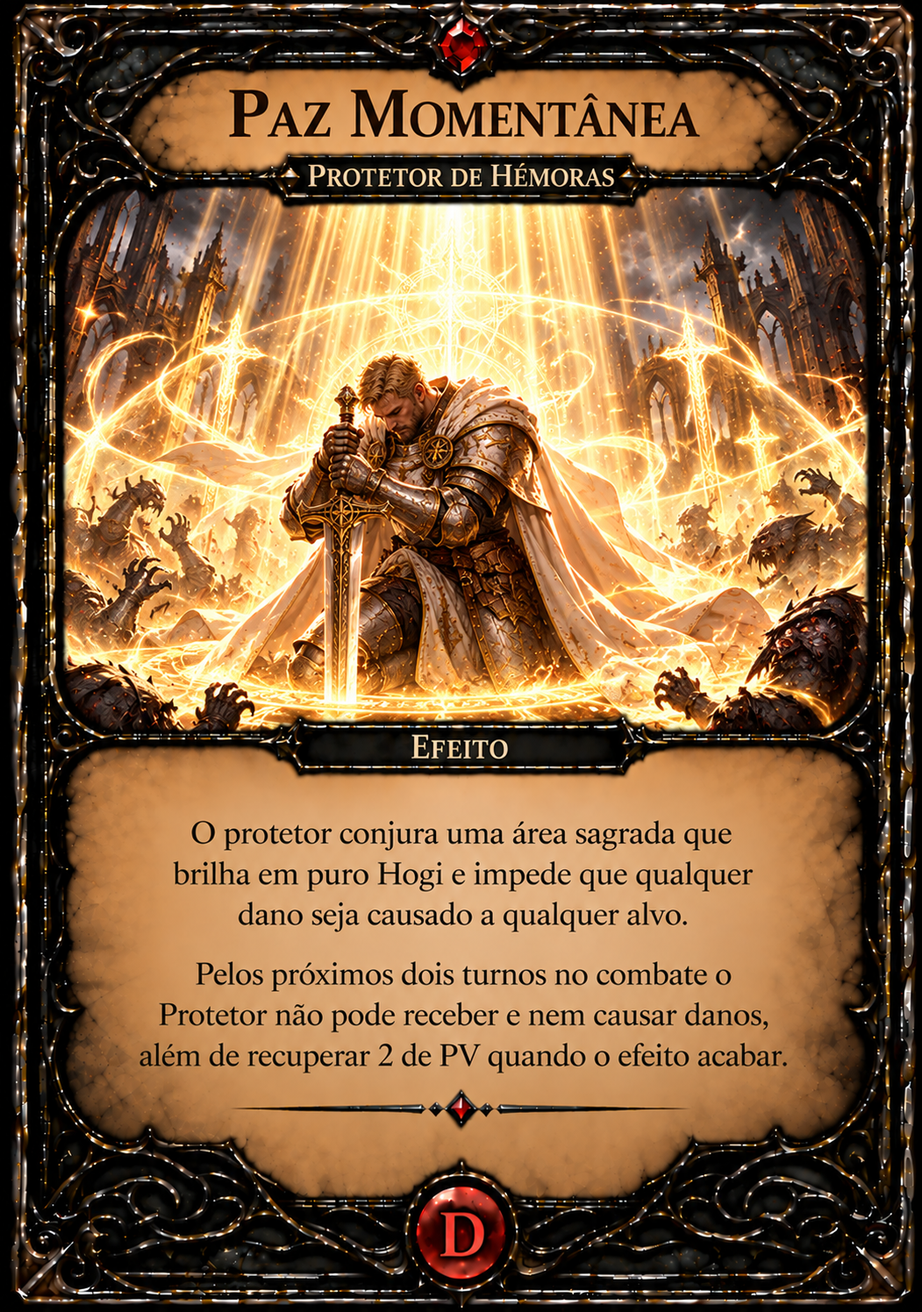
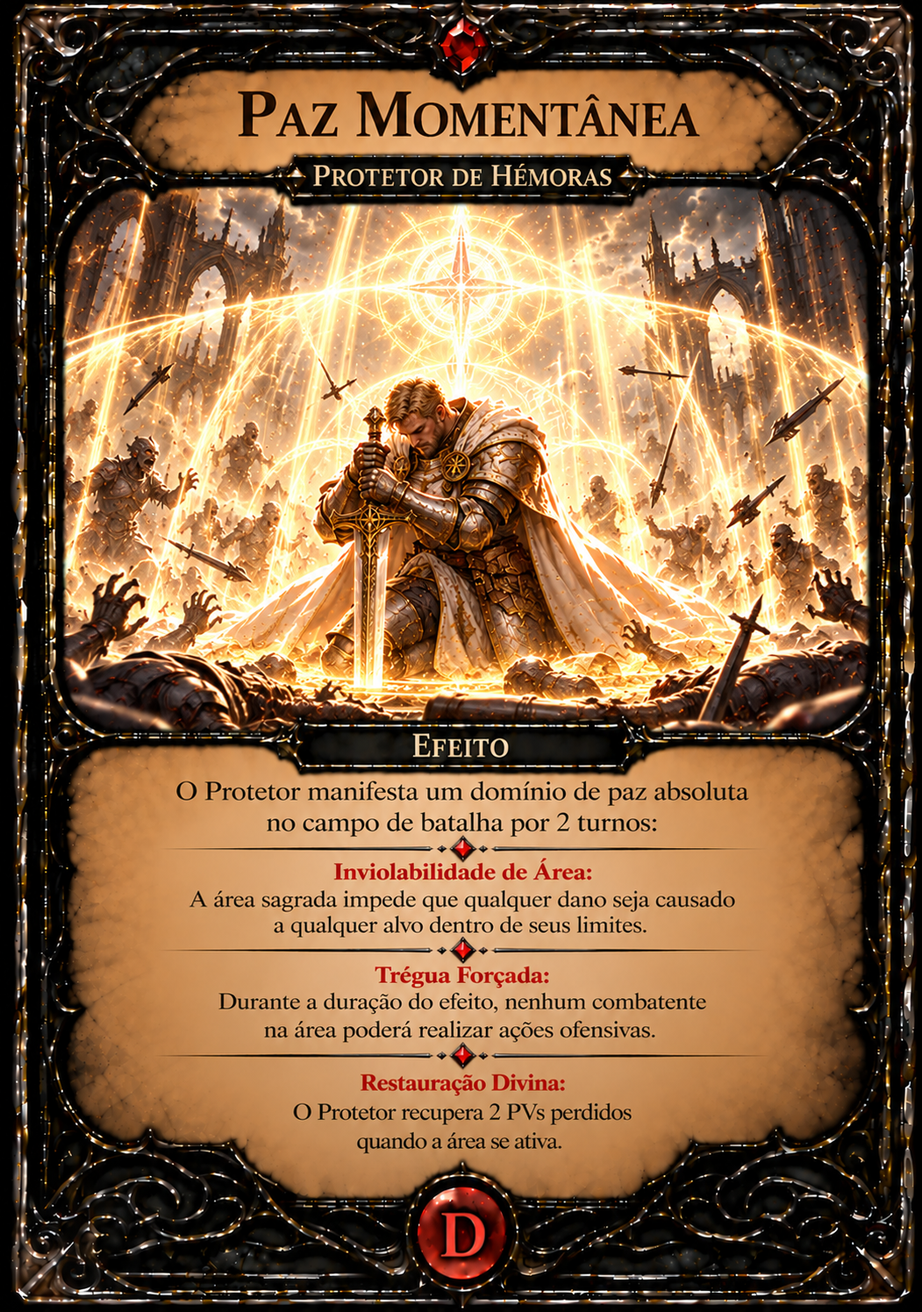
Habilidades + Artes

diff --git a/herois.html b/herois.html
@@ -482,9 +482,13 @@
                 <div class="texto-jogo">
                     <div class="titulo-habilidades">Habilidades conhecidas</div>
                     <div class="habilidades-lista">
-<p class="habilidade"><strong>D - Evasão</strong>: O Adepto consegue distorcer sua imagem e se transformar em um borrão, conseguindo evadir-se de um Combate ou Evento, recuando uma casa sem ativar o efeito da mesma. Evasão também pode ser usada em combate para desviar de 1 habilidade. Não pode ser usada em Lordes, Eventos e Guardiões.</p>
-<p class="habilidade"><strong>D - Esquiva Perfeita</strong>: A velocidade de Adepto aumenta em 5x, Os próximos 2 ataques que não sejam de efeitos em área ou auras e que tenha como o alvo o Adepto, o mesmo esquivará automaticamente.</p>
-<p class="habilidade"><strong>O - Furto Espectral</strong>: O Adepto rouba uma carta do adversário (o Alvo perde a carta); caso a carta escolhida for de habilidade, o adepto poderá usar a mesma na próxima açã ou até o fim do combate atual. Caso o Furto seja usado em um monstro do cenário, o jogador poderá receber o consumível daquele monstro e recuperar uma habilidade que já tenha sido usada anteriormente. Furto Espectral causa 1 de dano ao PV do alvo alvo roubado.</p>
+<p class="habilidade"><strong>D - Evasão</strong>: O Adepto distorce a própria imagem e pode escolher um dos seguintes efeitos:
+Recuo Tático - Recua 1 casa para sair de sua posição atual. Ele não ativa os efeitos ou armadilhas da casa de destino e anula tentativas de combate ou descoberta em sua posição anterior.
+Finta - Quando for alvo de uma habilidade em combate, desvia completamente do golpe, anulando todos os seus efeitos naquele turno.</p>
+<p class="habilidade"><strong>D - Esquiva Perfeita</strong>: O Adepto ganha uma agilidade sobrenatural. Os próximos 2 ataques comuns direcionados ao Adepto falham automaticamente, fazendo com que ele evite 100% do dano recebido desses golpes.</p>
+<p class="habilidade"><strong>O - Furto Espectral</strong>: O Adepto desfere um golpe preciso que causa 1 de dano de PV ao alvo.
+Contra Inimigos (Personagens): O Adepto distorce a energia (Hogi) do adversário e rouba 1 magia dele. O alvo perde o acesso a essa habilidade, e o Adepto pode usá-la até o fim do combate.
+Contra Monstros: O Adepto ganha 1 consumível e recupera 1 habilidade já gasta.</p>
                     </div>
                     <div class="efeito-passivo"><strong>Passivas</strong>: <strong>Furtividade</strong> - <strong>Furto</strong> - <strong>Percepção</strong>. Exemplo de Uso: Roubar um jogador, Perceber perigos adiantes, Andar sem ativar armadilhas ou passar despercebido por locais ameaçadores.</div>
                 </div>
@@ -549,9 +553,15 @@
                 <div class="texto-jogo">
                     <div class="titulo-habilidades">Habilidades conhecidas</div>
                     <div class="habilidades-lista">
-<p class="habilidade"><strong>O - Fúria de Batalha</strong>: O Atroz corta com suas duas lâminas causando 1 de dano ao PV do alvo. Após causar dano com essa habilidade todos os golpes críticos (6 ou mais) no combate, causam 1 de dano a mais ao PV do mesmo alvo.</p>
-<p class="habilidade"><strong>I - Avançar</strong>:  O Atroz com sua musculatura melhorada com Hogi consegue sair em disparada ignorando a maioria dos obstáculos. Adiciona +3 ao dado na próxima ação de mover-se no tabuleiro (Exemplo se “tirar” 4 no dado, resulta em 7). Essa habilidade pode ser usada em combate, caso o faça, o Atroz recebe +3 para acertar o alvo do combate.</p>
-<p class="habilidade"><strong>D/O - Até o fim</strong>: Quando o corpo de um Atroz se encontra perto da morte o mesmo começa a explodir em Hogi. Caso um Atroz tenha 3 ou menos de PV, seu corpo enrijece como aço evitando que o mesmo receba danos de ataque ou habilidade pelos próximos 2 turnos.O jogador ainda recebe +1 de dano em todos os ataques que fizer nesses 2 turnos.</p>
+<p class="habilidade"><strong>O - Fúria de Batalha</strong>: O Atroz desfere um golpe brutal no inimigo e desperta seu estado de fúria:
+Ataque Inicial: Causa 1 de dano de PV ao alvo.
+Bônus de Crítico: Após causar o dano, o Atroz ganha um bônus em acertos críticos. Ao rolar 6 no dado (Crítico), o ataque causa +1 de dano de PV adicional.</p>
+<p class="habilidade"><strong>I - Avançar</strong>:  O Atroz ganha uma explosão de velocidade e força. Ao ativar esta habilidade, escolha um dos seguintes efeitos para o turno:
+Deslocamento Imparável: O Atroz ganha +3 no próximo movimento, permitindo transpor e ignorar a maioria dos obstáculos no caminho.
+Carga de Combate: Ganha +3 no teste de acerto e +1 no dano em seus ataques até o final do turno atual.</p>
+<p class="habilidade"><strong>D - Até o fim</strong>: Esta habilidade ativa quando o Atroz é reduzido a 2 ou menos Pontos de Vida (PV):
+Invulnerabilidade: O Atroz enrijece o corpo e fica totalmente imune a qualquer fonte de dano durante os próximos 2 turnos.
+Bônus de Combate: Ganha +1 nos testes de acerto em todos os seus ataques durante a duração deste efeito.</p>
                     </div>
                     <div class="efeito-passivo"><strong>Passivas</strong>: <strong>Determinação</strong> - <strong>Resiliência</strong> - <strong>Potência</strong>. Exemplo de Uso: Se mover mais casas ate seu limite, Recuperar pontos de vida perdidos, Ignorar controles mentais e perda de vontades. </div>
                 </div>
@@ -616,9 +626,13 @@
                 <div class="texto-jogo">
                     <div class="titulo-habilidades">Habilidades conhecidas</div>
                     <div class="habilidades-lista">
-<p class="habilidade"><strong>O/D - Aprisionar</strong>: O Caçador arremessa sobre o alvo, correntes de Hogi que servirão como uma armadilha, elas causarão 1 de dano ao PV do alvo e o prenderão por um turno, impedindo que ele realize ações ofensivas no próximo turno, essa habilidade também permite que o Caçador fuja do combate e ande 1 casa a frente ignorando o efeito da mesma caso usada de modo Defensiva. Não pode ser usada em Lordes, Eventos e Guardiões.</p>
-<p class="habilidade"><strong>O - Disparo de Precisão</strong>: Concentrando e usando seu Hogi para melhorar sua visão, O Caçador consegue danificar com um tiro a longa distância qualquer alvo expostos, como Monstro Comum, Elite ou de Fendas, que estão até 5 casas à frente ou atrás causando 2 de dano ao PV do alvo. Esta habilidade também pode ser usada no combate para causar o mesmo dano ao PV inimigo.</p>
-<p class="habilidade"><strong>O - Caçada Suprema</strong>: Marca e causa 1 de dano ao PV de todos os alvos do combate usando seu Hogi como conexão, se o dano for causado, o Caçador escolhe par ou ímpar (para o dado dos adversários), e em todas as vezes que os oponentes tirarem um resultado igual ao escolhido, eles receberam +1 de dano ao PV, esse é um dano é extra ele não contará como o ataque do Caçador no turno, essa habilidade encerra quando o combate acabar.</p>
+<p class="habilidade"><strong>O/D - Aprisionar</strong>: O Caçador arremessa correntes com lâminas em direção ao alvo. A habilidade causa 1 de dano de PV e prende o inimigo por 1 turno, impedindo-o de realizar qualquer ação ofensiva no próximo turno dele.
+Defensiva: O Caçador utiliza o impulso das correntes para recuar do combate de forma segura, avançando 1 casa à frente sem ativar os efeitos ou armadilhas da casa de destino.</p>
+<p class="habilidade"><strong>I - Disparo de Precisão</strong>: O Caçador aguça a visão e realiza um disparo à longa distância podendo atingir qualquer alvo localizado a até 3 casas de distância ou no combate.</p>
+<p class="habilidade"><strong>O - Caçada Suprema</strong>: O Caçador sentencia o alvo à morte e aplica a marca da caçada.
+Impacto Inicial: Causa 1 de dano de PV ao alvo ao acertar.
+Conexão do Hogi (3 Turnos): Se o dano inicial for causado, o Caçador escolhe entre Par ou Ímpar.
+Ataque de Reação/Ataque Extra: Pelos próximos 3 turnos, toda vez que o alvo rolou um resultado correspondente à escolha (Par ou Ímpar), o Caçador ganha um ataque extra imediato contra ele, causando 1 de dano de PV.</p>
                     </div>
                     <div class="efeito-passivo"><strong>Passivas</strong>: <strong>Precisão</strong> - <strong>Sobrevivência</strong> - <strong>Instinto</strong>. Exemplos de Uso: Disparar à distância antes de ser visto (Causar 1 de dano no alvo ate 3 casas), armar acampamentos seguros em terrenos hostis, antecipar-se a emboscadas inimigas (seu proximo ataque é com Excelencia, jogar 2 dados e escolhe o maior como o resultado).</div>
                 </div>
@@ -683,9 +697,16 @@
                 <div class="texto-jogo">
                     <div class="titulo-habilidades">Habilidades conhecidas</div>
                     <div class="habilidades-lista">
-                        <p class="habilidade"><strong>I - Oração Definitiva</strong>: Wilenfar abençoa seus discípulos baseado nas suas necessidades, após ativar essa habilidade a Clériga pode escolher que benção receber, Benção da Força + 1 de jogada de combate e +1 no dano caso acerte, ou Benção da Harmonia + 1 de jogada de combate e recupera de 1 de PV. As bençãos só duram um turno.</p>
-                        <p class="habilidade"><strong>I - Extinguir</strong>: A Clériga conjura uma aura protetora para ela ou para outro jogador, com a habilidade de recuperar 2 de PV e de Dissipar qualquer efeito negativo que o mesmo tenha, tanto de cenário ou de inimigos. Enquanto estiver em combate, a aura impede o alvo de receber qualquer outro efeito negativo. Essa habilidade pode ser usada em um jogador até 8 casas de distância.</p>
-                        <p class="habilidade"><strong>I - Luz Traçante</strong>: A Clériga conjura a fúria do seu deus para a batalha, a Clériga sumona uma luz de calor surreal (Inatingível) que desce ao combate e persegue um alvo para queimá- lo por completo. Pelos próximos 2 turnos, um Raio de Luz irá de encontro a todos os alvos do combate alvo, atacando os mesmos com uma base de rolagem (3)”o alvo precisar tirar mais que 3 para não receber o ataque do Raio”, caso a luz o acerte, ela causará uma queimadura de 2 dano ao PV. A Clériga e a Luz se tornam alvos diferentes.</p>
+                        <p class="habilidade"><strong>I - Oração Definitiva</strong>: A Clériga clama pela intervenção divina de Wilenfar e escolhe uma das seguintes bênçãos para vigorar durante 1 turno:
+Bênção da Força: O alvo recebe +1 nos testes de acerto e +1 no dano.
+Bênção da Cura: O alvo recebe +1 nos testes de acerto e recupera imediatamente 1 Ponto de Vida (PV) perdido.</p>
+                        <p class="habilidade"><strong>I - Extinguir</strong>: A Clériga cria uma aura protetora que afeta a si mesma e a 1 outro alvo (em combate ou a até 5 casas de distância fora de combate):
+Cura & Purificação Imprópria: Recupera 2 PVs perdidos e dissipa imediatamente todos os efeitos negativos ativos nos alvos.
+Proteção Única: Enquanto o combate durar, a aura concede 1 anulação contra o próximo efeito negativo que tentem aplicar em cada alvo protegido (anula 1x por combate).</p>
+                        <p class="habilidade"><strong>I - Luz Traçante</strong>: A Clériga invoca um feixe de luz imparável que atua de forma independente no combate durante 2 turnos:
+Ataque Autônomo: A Luz Traçante conta como um atacante separado da Clériga. A cada turno do efeito, ela realiza um ataque contra o alvo escolhido com uma rolagem fixa de acerto igual a 3.
+Dano de Queimadura: Se o ataque da Luz atingir o alvo, causa 2 de dano de PV por queimadura.
+Bônus de Sinergia: Enquanto a Luz Traçante estiver ativa em campo, a Clériga ganha +1 nos testes de acerto em suas próprias ações.</p>
                     </div>
                     <div class="efeito-passivo"><strong>Passivas</strong>: <strong>Fé</strong> - <strong>Compaixão</strong> - <strong>Purificação</strong>. Exemplos de Uso: Curar aflições de grupo em zonas corrompidas (5 casas), criar zonas de proteção temporárias (5 casas), resistir a corrupções mentais ou espirituais.</div>
                 </div>
@@ -823,11 +844,18 @@
                 <div class="texto-jogo">
                     <div class="titulo-habilidades">Habilidades conhecidas</div>
                     <div class="habilidades-lista">
-<p class="habilidade"><strong>D - Fortuna de Nur</strong>: A Druida recebe a benção da Deusa da colheita e da vida, fazendo com que a mesma recupere 1 PV e receba +1 de vida permanente até o fim do combate.</p>
-<p class="habilidade"><strong>O - Estocada Peçonhenta</strong>: A Druida preenche sua arma com veneno letal, corta e causa 1 dano ao Pv do Alvo, fazendo o mesmo ficar envenenado. Durante os próximos 2 turnos, o alvo recebe -1 nas suas ações de combate.</p>
-<p class="habilidade"><strong>I - Forma Ancestral</strong>: A Druida, converte seu hogi para dentro do seu corpo, abrindo um portal para o reino de Nur, a deusa por sua vez envia uma criatura para substituir o corpo da Druida aumentando sua vitalidade máxima em +1 e concedendo um bônus de acerto no ataque de +1. Enquanto estiver na forma Ancestral a druida não poderá, usar outras habilidades até o fim do combate, seus elixires e itens vinculados ainda podem ser acessados normalmente. Essa habilidade dura 3 turnos.</p>
+<p class="habilidade"><strong>O - Estocada Peçonhenta</strong>: A Druida perfura o alvo com uma arma envenenada, aplicando os seguintes efeitos:
+Dano Inicial: Causa 1 de dano de PV ao perfurar o alvo.
+Envenenamento: O alvo fica envenenado por 2 turnos. Durante esse período, o inimigo recebe -1 em todas as suas rolagens de acerto.</p>
+<p class="habilidade"><strong>I - Forma Ancestral</strong>: A Druida canaliza o poder de Euphar, assumindo uma forma física aprimorada por 3 turnos:
+Vigor e Cura: Concede +1 de Vitalidade máxima (aumenta o limite de PV) e recupera 1 de PV imediatamente.
+Bônus de Combate: Concede +1 nos testes de acerto durante a transformação.
+Restrição de Concentração: Enquanto estiver na Forma Ancestral, a Druida não pode conjurar ou usar outras habilidades até o término do efeito.</p>
+<p class="habilidade"><strong>D - Fortuna de Nur</strong>: A Druida canaliza a bênção de Nur por 3 turnos, ativando os seguintes benefícios:
+Vitalidade Aumentada: Recupera 1 de PV e ganha +1 de PV máximo imediatamente.
+Potencialização de Consumíveis: Durante a duração da habilidade, a eficácia de todos os consumíveis defensivos utilizados pela Druida é dobrada.</p>
                     </div>
-                    <div class="efeito-passivo"><strong>Passivas</strong>: <strong>Harmonia</strong>: <strong>Adaptação</strong> - <strong>Vitalidade</strong>. Exemplos de Uso: Passar por terrenos difíceis sem penalidades, comunicar-se com feras ou espíritos da floresta, regenerar PV absorvendo a energia natural.</div>
+                    <div class="efeito-passivo"><strong>Passivas</strong>: <strong>Harmonia</strong> - <strong>Adaptação</strong> - <strong>Vitalidade</strong>. Exemplos de Uso: Passar por terrenos difíceis sem penalidades, comunicar-se com feras ou espíritos da floresta, regenerar PV absorvendo a energia natural.</div>
                 </div>
             </div>
         </article>
@@ -890,11 +918,16 @@
                 <div class="texto-jogo">
                     <div class="titulo-habilidades">Habilidades conhecidas</div>
                     <div class="habilidades-lista">
-<p class="habilidade"><strong>O - Criar Chamas</strong>: Usando seu Hogi para criar o elemento fogo, o Elementarista invoca poderosas labaredas que são disparadas sobre o alvo, causando 2 de dano. Caso o próximo ataque do Elementarista seja um crítico (6 ou mais) alvo tomará +1 de dano por queimadura, além dos outros danos do turno.</p>
-<p class="habilidade"><strong>D/O - Embaçamento</strong>: O Elementarista transforma seu corpo em vapor e faz com que o próximo ataque ou habilidade no combate passe por ele sem o mesmo receber danos ou efeitos. Embaçamento concede mais 2 no acerto da próxima jogada.</p>
-<p class="habilidade"><strong>O - Indução Elétrica</strong>: O Elementarista dispara uma grande quantidade de eletricidade no alvo, causando 2 de dano ao seu PV e o deixando confuso, fazendo que com que sua próxima ação no combate receba -3 de penalidade (a próxima jogada do dado irá subtrair -3 do valor no dado).</p>
+<p class="habilidade"><strong>O - Criar Chamas</strong>: O Elementarista canaliza seu Hogi para conjurar e arremessar labaredas de fogo:
+Dano Base: Causa 2 de dano de PV ao alvo atingido.
+Queimadura Crítica: Caso o próximo ataque do Elementarista seja um acerto crítico, o alvo afetado por esta habilidade recebe +1 de dano de queimadura.</p>
+<p class="habilidade"><strong>D/O - Embaçamento</strong>: O Elementarista manipula seu estado físico para escapar do perigo e preparar uma resposta precisa:
+Intangibilidade Total: O Elementarista transforma seu corpo em vapor, prevenindo e anulando totalmente qualquer dano recebido (seja de ataque comum ou de habilidade/magia). 
+Vantagem de Distração: Aproveitando a desorientação do oponente, o Elementarista ganha +2 nos testes de acerto para o seu próximo ataque.</p>
+<p class="habilidade"><strong>O - Indução Elétrica</strong>: O Elementarista dispara uma onda de eletricidade que atinge os alvos localizados à sua frente:
+Desorientação Elétrica: Durante os próximos 2 turnos, os inimigos afetados recebem -1 em todas as suas rolagens de acerto.</p>
                     </div>
-                    <div class="efeito-passivo"><strong>Passivas</strong>: <strong>Canalização</strong>: <strong>Instablidade</strong> - <strong>Fluxo</strong>. Exemplos de Uso: Modificar o piso com chamas ou gelo, dissipar barreiras mágicas elementares, sobrecarregar mecanismos com rajadas de energia pura, recuperação de habilidades.</div>
+                    <div class="efeito-passivo"><strong>Passivas</strong>: <strong>Canalização</strong> - <strong>Instablidade</strong> - <strong>Fluxo</strong>. Exemplos de Uso: Modificar o piso com chamas ou gelo, dissipar barreiras mágicas elementares, sobrecarregar mecanismos com rajadas de energia pura, recuperação de habilidades.</div>
                 </div>
             </div>
         </article>
@@ -957,9 +990,15 @@
                 <div class="texto-jogo">
                     <div class="titulo-habilidades">Habilidades conhecidas</div>
                     <div class="habilidades-lista">
-<p class="habilidade"><strong>D - Provocar</strong>: O Guardião brande seu escudo e o bate contra qualquer superfície sólida emitido uma luz que irrita  o alvo, após o ataque do adversário O Guardião poderá bloquear 1 ataque sem ser de habilidade seria direcionado ao seu PV, além disso impede que o adversário use  uma habilidade no próximo turno.</p>
-<p class="habilidade"><strong>D - Luz da Alvorada</strong>: O Guardião se envolve em uma barreira protetora feita de luz que o previne do próximo dano que seria causado no combate vindo de qualquer fonte (Ataques, Habilidades, Pergaminhos e etc),  quando a barreira acabar o Guardião recupera 2 de Pv.</p>
-<p class="habilidade"><strong>O/D - Escudada Poderosa</strong>: O Guardião arremessa seu escudo que acerta todos os oponentes do combate e retorna para o mesmo, o choque causa 2 de Dano a todos os alvos e aqueles que receberem o dano não poderão usar   habilidades no próximo turno. Recupera 1 de PV no fim do turno.</p>
+<p class="habilidade"><strong>O - Escudada Poderosa</strong>: O Guerreiro Pesado avança e desfere um golpe esmagador com o escudo no oponente à sua frente:
+Dano Impactante: Causa 2 de dano de PV ao alvo atingido.
+Bloqueio de Habilidades: O alvo atingido fica atordoado e não poderá usar habilidades no próximo turno.</p>
+<p class="habilidade"><strong>D - Luz da Alvorada</strong>: O Guardião invoca a proteção mística de Aranor por 2 turnos:
+Inviolabilidade Divina: Previne e anula todos os danos que seriam causados ao Guardião durante o combate enquanto a barreira estiver ativa, o Guardião não poderá realizar ações.
+Restaurar: Ao término dos 2 turnos de proteção, a barreira se dissipa e o Guardião recupera 2 PVs perdidos.</p>
+<p class="habilidade"><strong>D - Provocar</strong>: O Guardião emite um reflexo cegante e irritante para desorientar o inimigo:
+Bloqueio: O Guardião pode bloquear e anular 1 ataque comum (não funciona contra ataques de habilidades ou magias).
+Restrição Completa: No próximo turno, o alvo afetado fica completamente incapacitado de ativar habilidades ou usar itens consumíveis.</p>
                     </div>
                     <div class="efeito-passivo"><strong>Passivas</strong>: <strong>Impacto</strong> - <strong>Momento</strong> - <strong>Impenetrabilidade</strong>. Exemplos de Uso: Derrubar paredes ou pilares para criar novos caminhos, absorver golpes frontais massivos sem recuar, arremessar elementos do cenário contra oponentes.</div>
                 </div>
@@ -1024,11 +1063,18 @@
                 <div class="texto-jogo">
                     <div class="titulo-habilidades">Habilidades conhecidas</div>
                     <div class="habilidades-lista">
-<p class="habilidade"><strong>D - Cura Célere</strong>:  O Protetor conjura com suas mãos uma luz com o poder de  se curar ou curar outro jogador em 3 PV. Você poderá usar essa habilidade em um outro jogador, caso esteja na mesma casa que o mesmo.</p>
-<p class="habilidade"><strong>O - Fogo Celeste</strong>: O Protetor conjura uma luz que desce como um raio e causa 2 de dano a qualquer alvo no combate. O protetor recupera 1 de PV caso o Fogo cause dano.</p>
-<p class="habilidade"><strong>D - Paz Momentânea</strong>: O protetor conjura uma área sagrada que brilha em puro Hogi e impede que qualquer dano seja causado a qualquer alvo. Pelos próximos dois turnos no combate o Protetor não pode receber e nem causar danos, além de  recuperar 2 de Pv quando o efeito acabar.</p>
+<p class="habilidade"><strong>D - Cura Célere</strong>:  O Paladino canaliza energia luminosa para aplicar uma restauração imediata:
+Restauração Divina: Recupera 3 PVs do alvo escolhido (pode ser o próprio Paladino ou um aliado).
+Alcance Prático: A habilidade pode ser conjurada em um alvo localizado a até 3 casas de distância.</p>
+<p class="habilidade"><strong>O - Fogo Celeste</strong>: O Paladino conjura chamas divinas que atingem o inimigo e alimentam a vitalidade dos aliados:
+Dano Sagrado: Causa 2 de dano de PV ao alvo atingido.
+Cura Radiante: Caso as chamas causem dano com sucesso ao alvo, o Paladino e todos os seus aliados recuperam 1 PV.</p>
+<p class="habilidade"><strong>D - Paz Momentânea</strong>: O Protetor manifesta um domínio de paz absoluta no campo de batalha por 2 turnos:
+Inviolabilidade de Área: A área sagrada impede que qualquer dano seja causado a qualquer alvo dentro de seus limites.
+Trégua Forçada: Durante a duração do efeito, nenhum combatente na área poderá realizar ações ofensivas.
+Restauração Divina: O Protetor recupera 2 PVs perdidos quando a área se ativa. </p>
                     </div>
-                    <div class="efeito-passivo"><strong>Passivas</strong>: <strong>Honra</strong>: <strong>Vontade</strong> - <strong>Luz</strong>. Exemplos de Uso: Criar um reduto intransponível para proteger o grupo (5 casas), purificar o medo ou o desespero entre os companheiros (5 casas), romper ilusões com convicção inabalável.</div>
+                    <div class="efeito-passivo"><strong>Passivas</strong>: <strong>Honra</strong> - <strong>Vontade</strong> - <strong>Luz</strong>. Exemplos de Uso: Criar um reduto intransponível para proteger o grupo (5 casas), purificar o medo ou o desespero entre os companheiros (5 casas), romper ilusões com convicção inabalável.</div>
                 </div>
             </div>
         </article>
@@ -1091,11 +1137,17 @@
                 <div class="texto-jogo">
                     <div class="titulo-habilidades">Habilidades conhecidas</div>
                     <div class="habilidades-lista">
-<p class="habilidade"><strong>O - Rasgar a Alma</strong>:  Distorcendo a vida do seu oponente, o Mestre remove 1 de PV do alvo e recupera 1 de PV, caso o mesmo venha a morrer, O Mestre recupera 1 de PV a mais.</p>
-<p class="habilidade"><strong>D - Reforçar a Chama</strong>: Canalizando seu poder seu poder e aumentando suas capacidades , o Mestre impede que os próximos 2 acertos a ele no combate sejam fatais, após os ataques o Mestre recupera 1 de PV perdido.</p>
-<p class="habilidade"><strong>I - Forjar</strong>: O Mestre invoca do Atman, o reino dos mortos,  uma criatura de sangue e escuridão para trazer o terror ao campo de batalha.. A criatura  tem ações próprias no combate, atacando assim que invocada, enquanto o Mestre só poderá atacar no próximo turno, por causa da fadiga da invocação. A Criatura dura 3 turnos, já contando com o seu turno de invocação. </p>
+<p class="habilidade"><strong>O - Rasgar a Alma</strong>: O Necromante manipula a vida do alvo para drenar sua vitalidade:
+Dreno de Vida: Causa 1 de dano de PV ao alvo e faz o Necromante recuperar 1 PV perdido.
+Abate Espiritual: Caso o alvo venha a morrer por conta deste efeito (ou no mesmo turno), o Necromante recupera +1 de PV adicional.</p>
+<p class="habilidade"><strong>D - Reforçar a Chama</strong>: O Necromante protege sua essência vital contra investidas mortais:
+Proteção Fatal: Impede que os próximos 2 acertos recebidos em combate sejam fatais (reduzindo o dano ou estabilizando o impacto para evitar a morte imediata).
+Cura Residual: Quando o efeito da habilidade se esgota, o Necromante recupera 1 de PV perdido.</p>
+<p class="habilidade"><strong>I - Stvr O Decomposto</strong>: O Necromante canaliza a essência demoníaca de Stvr por 3 turnos, alterando sua forma física:
+ Durante a duração da habilidade, a fisiologia do Necromante se altera para a forma do demônio Decomposto.
+Dreno Crueento: Sempre que o Necromante causar qualquer dano a um alvo, ele recupera a mesma quantidade de PV perdido imediatamente.</p>
                     </div>
-                    <div class="efeito-passivo"><strong>Profanação</strong>: <strong>Apatia</strong> - <strong>Transmutação Essencial</strong>. Exemplos de Uso: Profanação: Transformar uma casa livre em terreno sagrílego/profano, fazendo com que qualquer inimigo que entre nela perca resistência -1 de PV,
+                    <div class="efeito-passivo"><strong>Passivas</strong>: <strong>Profanação</strong> - <strong>Apatia</strong> - <strong>Transmutação Essencial</strong>. Exemplos de Uso: Profanação: Transformar uma casa livre em terreno sagrílego/profano, fazendo com que qualquer inimigo que entre nela perca resistência -1 de PV,
 Apatia: Fechar sua própria mente para a dor e para sensações físicas, ignorando penalidades de ferimentos graves ou sangramento ao canalizar a frieza do plano dos mortos.
 Transmutação Essencial: Drenar a essência de vestígios mortos no cenário para converter a vitalidade do local em pontos de vida, habilidades e escudos de ossos para si ou para seus servos.</div>
                 </div>
